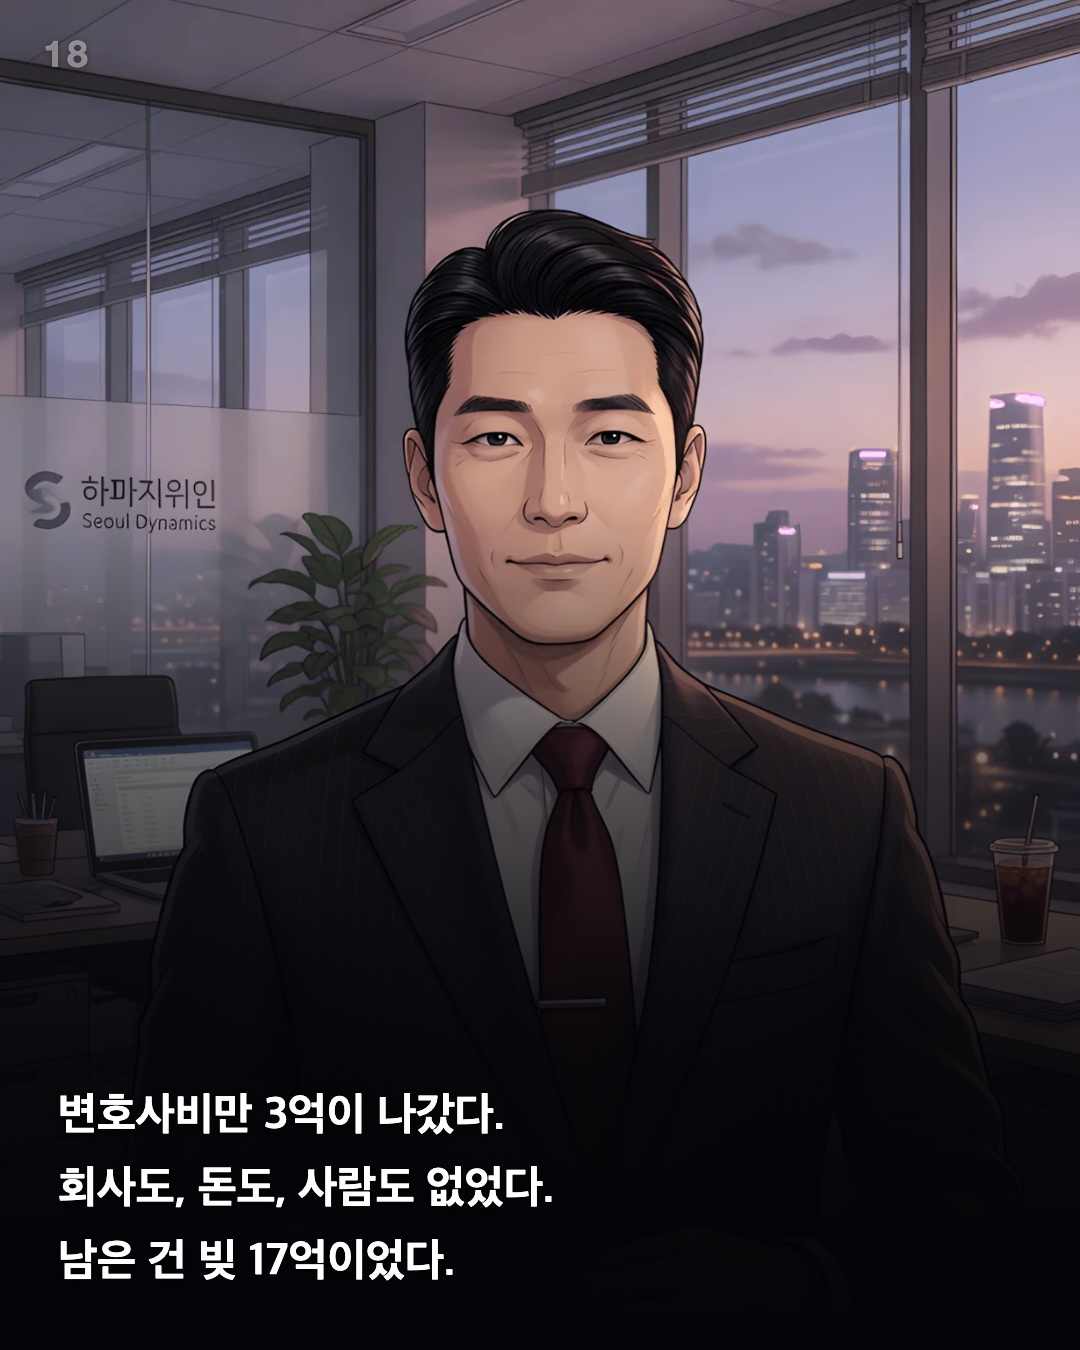
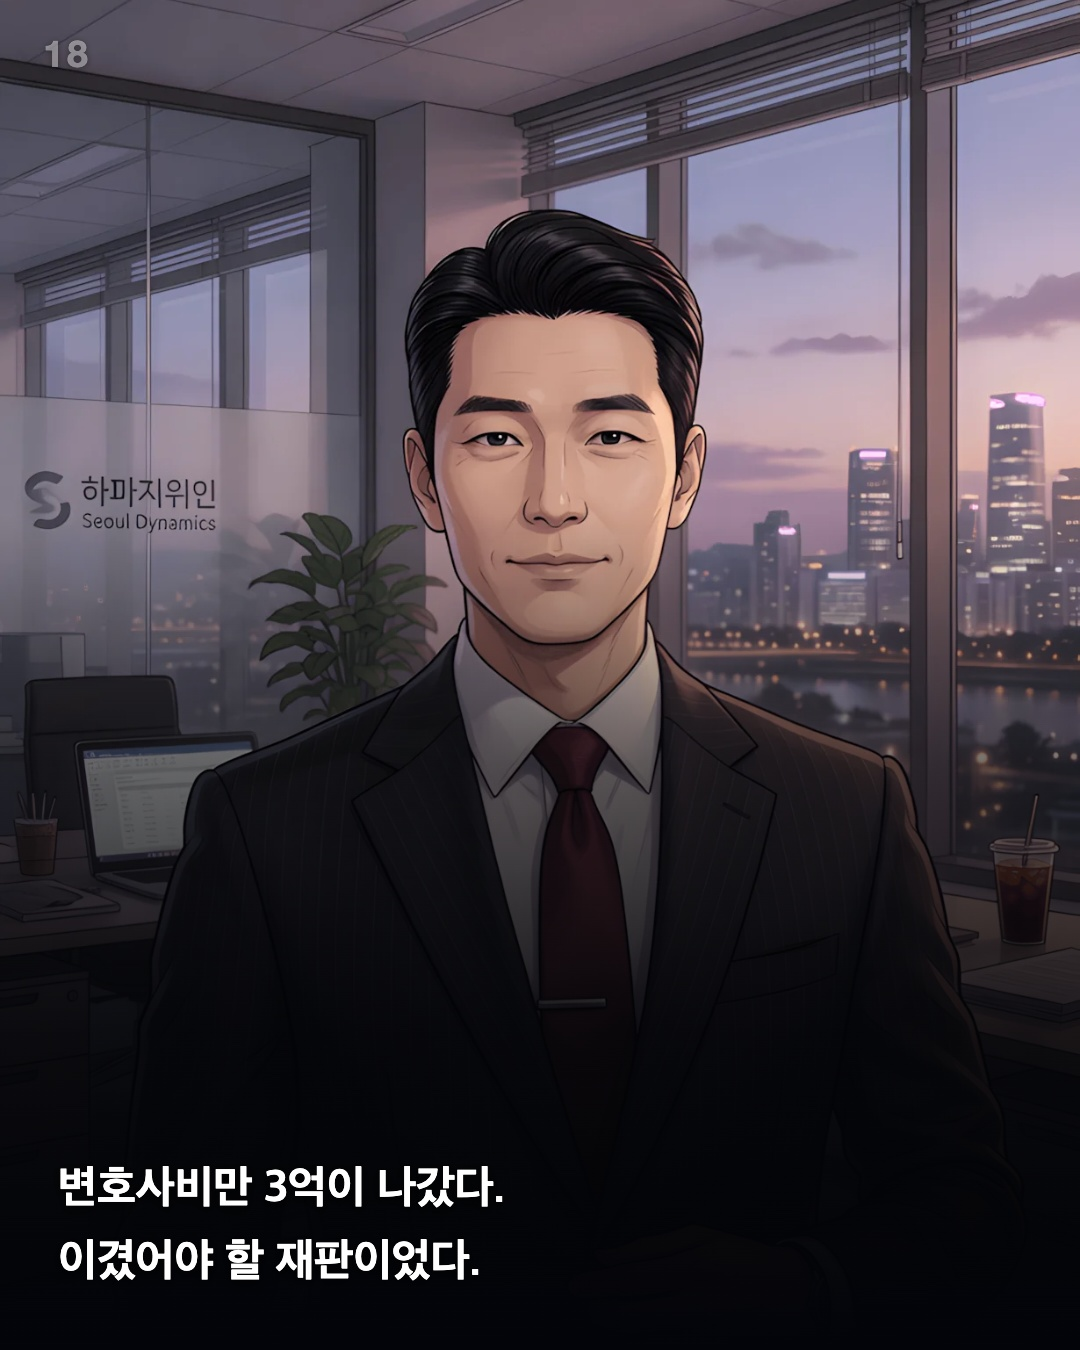
1화 나락 시퀀스 확장 — 20컷 → 33컷
배신 이후 추락을 13컷 추가로 깊게:
직원 전원 이탈 → 창업멤버 불리한 증언 → 언론 보도 → 투자자 손배 40억
→ 신혼집 가압류 → 부모 집 담보 → 어머니 뇌출혈 → 중환자실 90만원
→ 신용불량 → 사채 17억 → 그놈과 그 여자의 결혼식 사진(내가 잡은 그 식장)

- mc-38-lux-*는 리조트/요트 이미지라 나락 톤과 반대여서 침울한 인물 컷으로 교체
- mc-38-lux-*는 WebP 전환 예외(PNG 유지)라 확장자 되돌림

Changed region(s): [[0.0611, 0.8089, 0.5194, 0.9644]]

diff --git a/tools/episodes.js b/tools/episodes.js
@@ -4,7 +4,7 @@ const EPISODES = [
   {
     no: "1화",
     title: "인감은 침대 옆 서랍에 있었다",
-    log: "상장을 넉 달 앞두고 10년지기 동업자에게 회사를 통째로 빼앗긴다. 위조 계약서에 찍힌 인감은 진짜였고, 그 서랍을 아는 사람은 세상에 둘뿐이었다.",
+    log: "상장 넉 달 전, 10년지기와 여자친구가 짜고 회사를 삼킨다. 직원 마흔 명이 등을 돌리고, 부모 집까지 담보로 넘어가고, 어머니가 쓰러진다. 그리고 그 둘의 결혼식 사진을 보게 된다.",
     cuts: [
       ["assets/mc-38-lux-03.png", "2026년. 서른여덟.<br>회사 지분 60%, 가을엔 상장이었다.<br>나는 다 가진 줄 알았다."],
       ["assets/situ/guy-08-date.webp", "동업자는 10년지기였다.<br>보증금 없는 반지하에서 같이 시작해,<br>2년을 무보수로 버틴 사이였다."],
@@ -23,8 +23,21 @@ const EPISODES = [
       ["assets/situ/guy-02-sad.webp", "고소했다. 증거는 전부 저쪽에 있었다.<br>인감, 서류, 그리고 내 여자."],
       ["assets/situ/guy-03-sad.webp", "법원은 내가 인감을 자발적으로<br>맡긴 것으로 판단했다.<br>동거인이 꺼내 준 건 절도가 아니라고 했다."],
       ["assets/situ/guy-04-sad.webp", "석 달 뒤, 오히려 내가<br>무고죄로 역고소당했다.", "shock", "역고소"],
-      ["assets/mc-30s.webp", "변호사비만 3억이 나갔다.<br>회사도, 돈도, 사람도 없었다.<br>남은 건 빚 17억이었다."],
-      ["assets/int-rooftop.webp", "7월. 핸드폰이 꺼졌다.<br>충전할 돈이 없어서가 아니라<br>받을 전화가 없어서였다.<br>옥상 난간 위로 비가 내렸다."],
+      ["assets/mc-30s.webp", "변호사비만 3억이 나갔다.<br>이겼어야 할 재판이었다."],
+      ["assets/int-betrayal-2.webp", "직원이 마흔 명이었다.<br>단 한 명도 내 편에 서지 않았다.<br>전부 그놈 밑으로 갔다.", "shock", "전원 이탈"],
+      ["assets/int-betrayal-3.webp", "창업 때부터 있던 이사가 증인석에 섰다.<br>“대표님은 평소에도 인감을 자주 맡기셨습니다.”"],
+      ["assets/int-betrayal-4.webp", "사흘 뒤 기사가 났다.<br>‘스타트업 대표, 회삿돈 횡령 의혹’<br>내 얼굴이 모자이크 없이 나갔다.", "shock", "사회적 매장"],
+      ["assets/int-betrayal-5.webp", "투자자들이 손해배상을 청구했다.<br>상장은 무산됐고, 청구액은 40억이었다."],
+      ["assets/situ/guy-06-sad.webp", "신혼집이 가압류됐다.<br>그 여자랑 살려고 산 집이었다.<br>도배도 안 뜯은 채로 넘어갔다."],
+      ["assets/int-rooftop-2.webp", "그리고 부모님 집까지 담보로 잡혀 있었다.<br>상장 자금을 당기려고<br>내가 넣은 거였다.", "shock", "부모 집"],
+      ["assets/situ/girl-12-sad.webp", "가압류 통지서가 간 날<br>어머니가 쓰러졌다. 뇌출혈이었다."],
+      ["assets/situ/guy-05-sad.webp", "중환자실 하루 90만원.<br>나는 그 돈이 없었다.<br>평생 처음이었다."],
+      ["assets/situ/guy-07-sad.webp", "카드가 전부 정지됐다.<br>신용불량자가 됐다.<br>통장을 만들 수도 없었다."],
+      ["assets/situ/guy-09-sad.webp", "결국 사채를 썼다.<br>월 이자가 원금보다 무서웠다.<br>석 달 만에 빚이 17억이 됐다.", "shock", "17억"],
+      ["assets/int-rooftop-3.webp", "그 무렵 인터넷에서 사진을 봤다.<br>그놈과 그 여자의 결혼식이었다.<br>내가 잡아둔 그 식장이었다.", "shock", "그 식장"],
+      ["assets/situ/guy-10-sad.webp", "하객 명단에 내 옛 직원들이 있었다.<br>축의금 봉투엔 회사 로고가 찍혀 있었다."],
+      ["assets/int-rooftop-5.webp", "7월. 핸드폰이 꺼졌다.<br>충전할 돈이 없어서가 아니라<br>받을 전화가 없어서였다."],
+      ["assets/int-rooftop.webp", "옥상에 올라갔다.<br>난간 위로 비가 내렸다.<br>서른여덟, 남은 건 빚뿐이었다."],
       ["assets/int-flash.webp", "“딱 한 번만… 다시 살 수 있다면.”<br>그 말이 새어 나온 순간<br>시간이 거꾸로 쏟아졌다.", "next", "NEXT"],
     ],
   },

diff --git a/tools/sheet.html b/tools/sheet.html
@@ -1,0 +1,17 @@
+<title>ruin sheet</title>
+<style>
+body{background:#111;color:#ddd;font-family:sans-serif;margin:0;padding:14px}
+.g{display:grid;grid-template-columns:repeat(5,1fr);gap:8px}
+figure{margin:0}
+img{width:100%;aspect-ratio:4/5;object-fit:cover;object-position:center 22%;display:block;border-radius:4px;background:#222}
+figcaption{font-size:11px;padding:4px 0;color:#8a9}
+</style>
+<div class="g" id="g"></div>
+<script>
+const L=['int-betrayal-2','int-betrayal-3','int-betrayal-4','int-betrayal-5',
+ 'int-rooftop-2','int-rooftop-3','int-rooftop-4','int-rooftop-5',
+ 'int-flash-2','int-flash-3','int-flash-4','int-flash-5',
+ 'int-resolve-2','int-resolve-3','int-resolve-4','int-resolve-5','fmc-fall'];
+document.getElementById('g').innerHTML = L.map(n=>
+ `<figure><img src="assets/${n}.webp"><figcaption>${n}</figcaption></figure>`).join('');
+</script>
